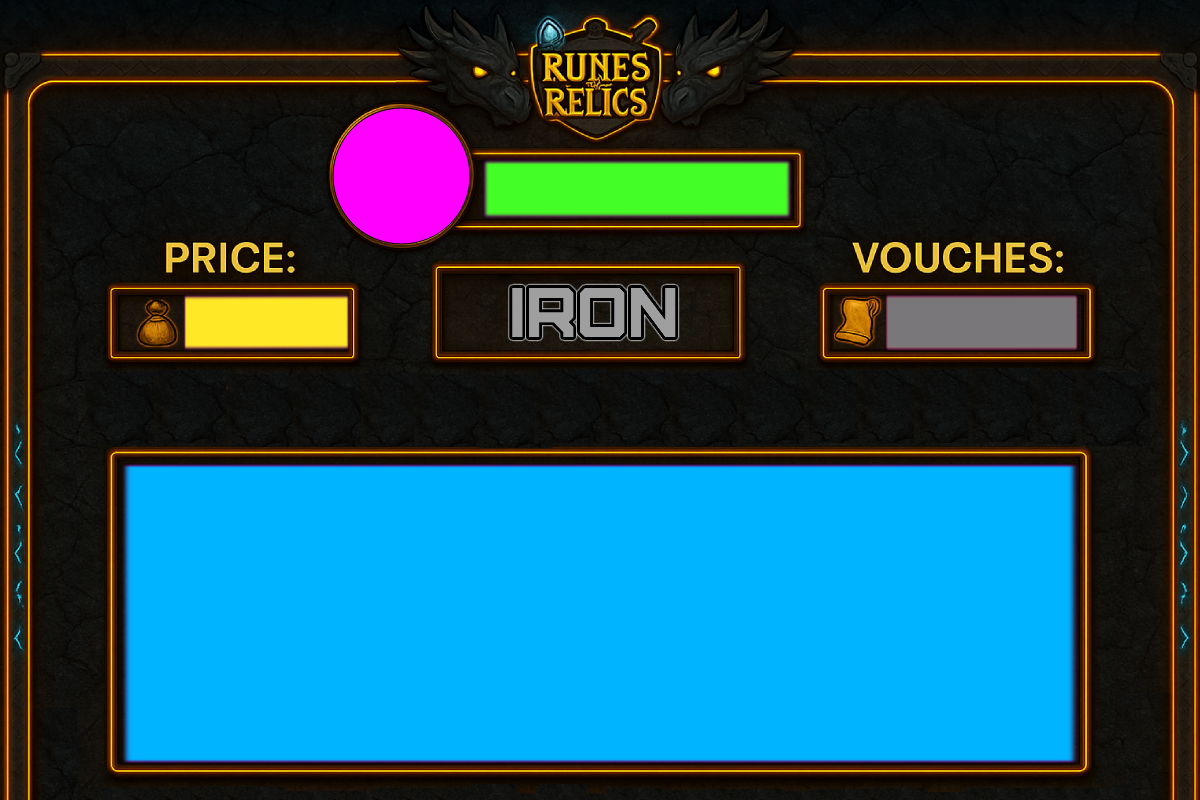
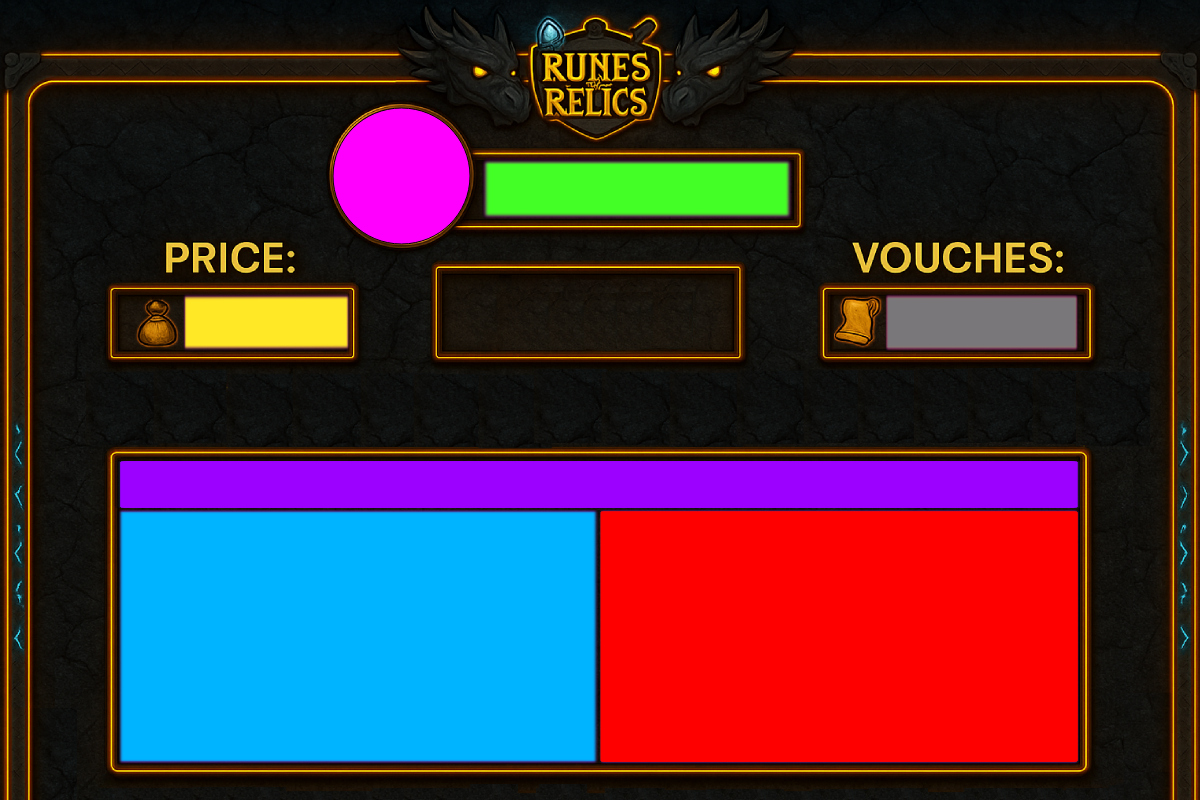
Add files via upload

Changed region(s): [[0.0925, 0.5625, 0.925, 0.9688], [0.4008, 0.3438, 0.5858, 0.4375]]

diff --git a/cogs/listings.py b/cogs/listings.py
@@ -11,11 +11,74 @@ class AccountListingModal(Modal):
         self.channel_type = channel_type
         self.CHANNELS = channels
         
-        self.description = TextInput(
-            label="Account Description",
-            style=discord.TextStyle.paragraph,
-            placeholder="Describe your account's stats, quests, achievements, etc.",
-            max_length=500
+        # Account Type Questions
+        self.account_type_question = TextInput(
+            label="Account Type",
+            placeholder="Legacy or Jagex?",
+            max_length=10
+        )
+        
+        self.ban_status = TextInput(
+            label="Ban Status",
+            placeholder="No Bans, Temp Ban, or Perm Ban?",
+            max_length=20
+        )
+        
+        self.email_status = TextInput(
+            label="Email Status (Legacy only)",
+            placeholder="Registered or Unregistered? (Leave empty for Jagex)",
+            max_length=20,
+            required=False
+        )
+        
+        # Left Side Details (4 text inputs)
+        self.detail1 = TextInput(
+            label="Achievement/Item 1",
+            placeholder="e.g., Full graceful",
+            max_length=50
+        )
+        
+        self.detail2 = TextInput(
+            label="Achievement/Item 2", 
+            placeholder="e.g., Fire cape",
+            max_length=50
+        )
+        
+        self.detail3 = TextInput(
+            label="Achievement/Item 3",
+            placeholder="e.g., Dragon defender",
+            max_length=50
+        )
+        
+        self.detail4 = TextInput(
+            label="Achievement/Item 4",
+            placeholder="e.g., MA2 cape",
+            max_length=50
+        )
+        
+        # Right Side Details (4 text inputs)
+        self.detail5 = TextInput(
+            label="Achievement/Item 5",
+            placeholder="e.g., Quest cape",
+            max_length=50
+        )
+        
+        self.detail6 = TextInput(
+            label="Achievement/Item 6",
+            placeholder="e.g., 99 strength",
+            max_length=50
+        )
+        
+        self.detail7 = TextInput(
+            label="Achievement/Item 7",
+            placeholder="e.g., Barrows gloves",
+            max_length=50
+        )
+        
+        self.detail8 = TextInput(
+            label="Achievement/Item 8",
+            placeholder="e.g., Void set",
+            max_length=50
         )
         
         self.price = TextInput(
@@ -30,7 +93,18 @@ class AccountListingModal(Modal):
             max_length=100
         )
 
-        self.add_item(self.description)
+        # Add all items to modal
+        self.add_item(self.account_type_question)
+        self.add_item(self.ban_status)
+        self.add_item(self.email_status)
+        self.add_item(self.detail1)
+        self.add_item(self.detail2)
+        self.add_item(self.detail3)
+        self.add_item(self.detail4)
+        self.add_item(self.detail5)
+        self.add_item(self.detail6)
+        self.add_item(self.detail7)
+        self.add_item(self.detail8)
         self.add_item(self.price)
         self.add_item(self.payment)
 
@@ -89,12 +163,59 @@ class AccountListingModal(Modal):
             await interaction.followup.send("❌ No images were provided in time. Please try listing again.", ephemeral=True)
             return
 
+        # Generate account header based on user inputs
+        account_type = self.account_type_question.value.lower().strip()
+        ban_status = self.ban_status.value.lower().strip()
+        email_status = self.email_status.value.lower().strip() if self.email_status.value else ""
+        
+        # Build header based on account type
+        header_parts = []
+        
+        if account_type == "jagex":
+            header_parts.append("JAGEX ACCOUNT")
+        elif account_type == "legacy":
+            header_parts.append("LEGACY")
+            if email_status:
+                if email_status == "registered":
+                    header_parts.append("REGISTERED")
+                elif email_status == "unregistered":
+                    header_parts.append("UNREGISTERED")
+        
+        # Add ban status
+        if ban_status == "no bans":
+            header_parts.append("NO BANS")
+        elif ban_status == "temp ban":
+            header_parts.append("TEMP BAN")
+        elif ban_status == "perm ban":
+            header_parts.append("PERM BAN")
+        
+        account_header = " | ".join(header_parts)
+        
+        # Build details strings
+        details_left = []
+        details_right = []
+        
+        # Left side details (1-4)
+        for detail in [self.detail1.value, self.detail2.value, self.detail3.value, self.detail4.value]:
+            if detail.strip():
+                details_left.append(detail.strip())
+        
+        # Right side details (5-8)
+        for detail in [self.detail5.value, self.detail6.value, self.detail7.value, self.detail8.value]:
+            if detail.strip():
+                details_right.append(detail.strip())
+        
+        details_left_text = "\n".join(details_left)
+        details_right_text = "\n".join(details_right)
+        
         # Generate the account details template (no images)
         embed_generator = EmbedGenerator()
         account_template = await embed_generator.generate_listing_image(
             self.account_type,
             interaction.user,
-            self.description.value,
+            account_header,
+            details_left_text,
+            details_right_text,
             self.price.value,
             self.payment.value
         )

diff --git a/cogs/embed_generator.py b/cogs/embed_generator.py
@@ -17,7 +17,9 @@ class EmbedGenerator:
             'pfp': (255, 0, 255),      # #ff00ff - Discord user pfp
             'name': (68, 255, 37),      # #44ff25 - Discord display name
             'value': (255, 232, 37),    # #ffe825 - Account value
-            'description': (0, 180, 255),# #00b4ff - Account description
+            'header': (156, 0, 255),    # #9c00ff - Account type header
+            'details_left': (0, 180, 255), # #00b4ff - Left side account details
+            'details_right': (255, 0, 0),  # #ff0000 - Right side account details
             'vouches': (121, 119, 121), # #797779 - User vouches
             'image1': (252, 0, 6),      # #fc0006 - Image 1 location
             'image2': (0, 24, 255),     # #0018ff - Image 2 location
@@ -116,6 +118,24 @@ class EmbedGenerator:
         
         return "\n".join(lines)
 
+    def draw_multiline_text(self, draw, text_lines, font, zone, max_lines=4):
+        """Draw multiple lines with proper spacing"""
+        # Filter out empty lines
+        non_empty_lines = [line.strip() for line in text_lines if line.strip()]
+        
+        # Limit to max_lines
+        lines_to_draw = non_empty_lines[:max_lines]
+        
+        if not lines_to_draw:
+            return
+        
+        line_height = font.getbbox('Ay')[3]  # Get line height
+        spacing = 5  # Pixels between lines
+        
+        for i, line in enumerate(lines_to_draw):
+            y_position = zone[1] + (i * (line_height + spacing))
+            draw.text((zone[0], y_position), line, font=font, fill=(255, 255, 255))
+
     def get_user_vouches(self, user_id):
         """Get the total number of vouches for a user"""
         try:
@@ -132,8 +152,8 @@ class EmbedGenerator:
             print(f"Error getting vouches for user {user_id}: {e}")
             return 0
 
-    async def generate_listing_image(self, account_type, user, description, price, payment_methods):
-        """Generate a listing using the template and mapping system (no showcase image)"""
+    async def generate_listing_image(self, account_type, user, account_header, details_left, details_right, price, payment_methods):
+        """Generate a listing using the template and mapping system with header and split details"""
         try:
             # Load both the clean template and its mapping
             # Handle special case for HCIM template naming
@@ -214,33 +234,27 @@ class EmbedGenerator:
                 
                 draw.text((text_x, text_y), price_text, font=price_font, fill=(255, 255, 255))
 
-            # 4. Description
-            desc_zone = self.find_color_zone(map_image, self.COLOR_MAPPINGS['description'])
-            if desc_zone:
-                # Handle special characters in description
-                description = self.normalize_text(description)
-                wrapped_text = self.fit_text_to_box(
-                    description,
-                    desc_font,
-                    desc_zone[2] - desc_zone[0],
-                    desc_zone[3] - desc_zone[1]
-                )
-                
-                # Calculate text height to ensure it fits within bounds
-                lines = wrapped_text.split('\n')
-                line_height = desc_font.getbbox('Ay')[3]  # Get line height
-                total_height = len(lines) * line_height + (len(lines) - 1) * TEXT_CONFIG['description']['line_spacing']
-                
-                # If text is too tall, truncate it
-                max_lines = (desc_zone[3] - desc_zone[1]) // (line_height + TEXT_CONFIG['description']['line_spacing'])
-                if len(lines) > max_lines:
-                    lines = lines[:max_lines]
-                    wrapped_text = '\n'.join(lines)
-                
-                # Draw the text with proper positioning
-                draw.text((desc_zone[0], desc_zone[1]), wrapped_text, 
-                         font=desc_font, fill=(255, 255, 255),
-                         spacing=TEXT_CONFIG['description']['line_spacing'])
+            # 4. Account Header
+            header_zone = self.find_color_zone(map_image, self.COLOR_MAPPINGS['header'])
+            if header_zone:
+                # Handle special characters in header
+                account_header = self.normalize_text(account_header)
+                draw.text((header_zone[0], header_zone[1]), account_header, 
+                         font=username_font, fill=(255, 255, 255))
+
+            # 5. Left Side Details
+            details_left_zone = self.find_color_zone(map_image, self.COLOR_MAPPINGS['details_left'])
+            if details_left_zone:
+                # Split details_left into lines and draw
+                details_left_lines = [line.strip() for line in details_left.split('\n') if line.strip()]
+                self.draw_multiline_text(draw, details_left_lines, desc_font, details_left_zone, max_lines=4)
+
+            # 6. Right Side Details
+            details_right_zone = self.find_color_zone(map_image, self.COLOR_MAPPINGS['details_right'])
+            if details_right_zone:
+                # Split details_right into lines and draw
+                details_right_lines = [line.strip() for line in details_right.split('\n') if line.strip()]
+                self.draw_multiline_text(draw, details_right_lines, desc_font, details_right_zone, max_lines=4)
 
 
 

diff --git a/config/layout.py b/config/layout.py
@@ -2,9 +2,9 @@
 
 # Font sizes (significantly increased)
 FONT_SIZES = {
-    'username': 15,     # Very large for username
-    'price': 30,       # Large for price
-    'description': 20  # Medium for description
+    'username': 72,     # Very large for username
+    'price': 64,       # Large for price
+    'description': 52  # Medium for description
 }
 
 # Profile picture settings
@@ -39,8 +39,4 @@ TEXT_CONFIG = {
         'color': (0, 255, 255),   # RGB color (cyan)
         'right_padding': 30,      # Padding from right edge
     }
-
 }
-
-
-
